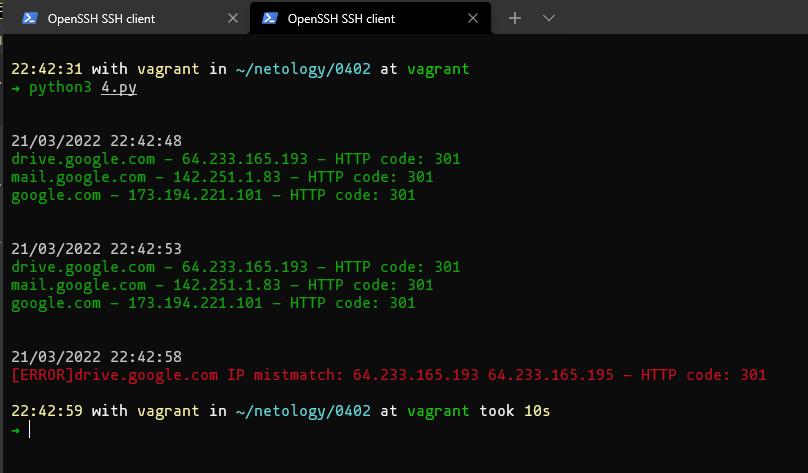
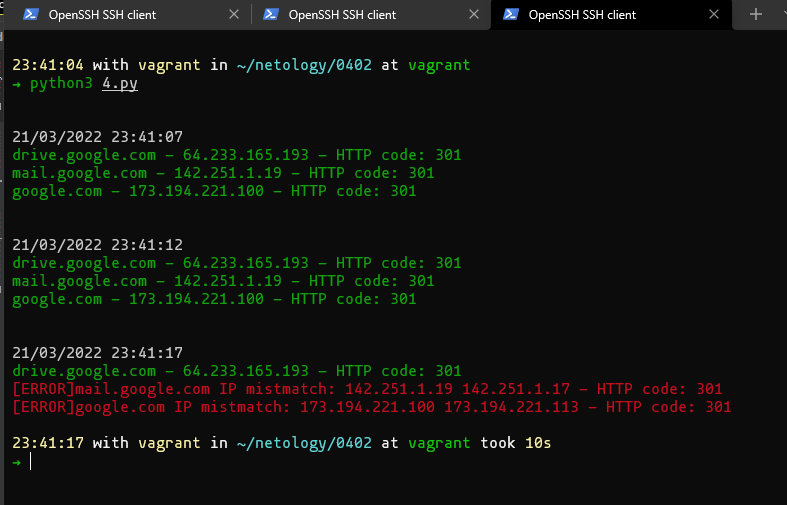
[04-script-03-yaml] ДЗ + скрипты + корректировки

diff --git a/04-script-03-yaml/scripts/1.py b/04-script-03-yaml/scripts/1.py
@@ -1,0 +1,52 @@
+#!/usr/bin/env python3
+
+import sys
+from subprocess import PIPE, Popen
+import socket
+import time
+from datetime import datetime
+import json
+import yaml
+
+port = "80"
+timeout = "10"
+
+hosts = {'drive.google.com':'','mail.google.com':'','google.com':''}
+
+def update_hosts(hosts_l):
+    for host in hosts_l:
+        ip = socket.gethostbyname(host)
+        hosts_l[host] = ip
+    return hosts_l
+
+def update_files(hosts_l):
+    with open('hosts.json', 'w') as hosts_json:
+        hosts_json.write(str(json.dumps(hosts_l)))
+    with open('hosts.yaml', 'w') as hosts_yaml:
+        hosts_yaml.write(yaml.dump(hosts_l))
+    return
+
+update_files(update_hosts(hosts))
+now_hosts = update_hosts(hosts)
+error = False
+
+while True:
+    now = datetime.now()
+    print('\n')
+    print('\033[37m' + now.strftime("%d/%m/%Y %H:%M:%S"))
+    for index, host in enumerate(now_hosts):
+        req = Popen('curl --write-out \'%{http_code}\' --silent --output /dev/null --connect-timeout ' + timeout + ' http://' + host + ':' + port, shell=True, stdout=PIPE, stderr=PIPE)
+        stdout, stderr = req.communicate()
+        code = stdout.decode()
+        now_ip = socket.gethostbyname(host)
+        if now_ip.find(now_hosts[host]) != -1:
+            print('\033[32m' + host + ' - ' + now_ip + ' - HTTP code: ' + code)
+        else:
+            print('\033[31m[ERROR]' + host + ' IP mistmatch: ' + now_hosts[host] + ' ' + now_ip + ' - HTTP code: ' + code)
+            error = True
+        
+        now_hosts[host] = now_ip
+    if error:
+        update_files(now_hosts)
+        sys.exit(0)
+    time.sleep(5)

diff --git a/04-script-02-py/scripts/4.py b/04-script-02-py/scripts/4.py
@@ -11,6 +11,7 @@ timeout = "10"
 hosts = ['drive.google.com','mail.google.com','google.com']
 hosts_ip =['','','']
 first = True
+error = False
 while True:
     now = datetime.now()
     print('\n')
@@ -25,10 +26,12 @@ while True:
                 print('\033[32m' + host + ' - ' + now_ip + ' - HTTP code: ' + code)
             else:
                 print('\033[31m[ERROR]' + host + ' IP mistmatch: ' + hosts_ip[index] + ' ' + now_ip + ' - HTTP code: ' + code)
-                sys.exit(0)
+                error = True
         else:
             print('\033[32m' + host + ' - ' + now_ip + ' - HTTP code: ' + code)
         hosts_ip[index] = now_ip
+    if error:
+        sys.exit(0)
     first = False
     time.sleep(5)
     

diff --git a/04-script-03-yaml/README.md b/04-script-03-yaml/README.md
@@ -1,0 +1,148 @@
+### Как сдавать задания
+
+Вы уже изучили блок «Системы управления версиями», и начиная с этого занятия все ваши работы будут приниматься ссылками на .md-файлы, размещённые в вашем публичном репозитории.
+
+Скопируйте в свой .md-файл содержимое этого файла; исходники можно посмотреть [здесь](https://raw.githubusercontent.com/netology-code/sysadm-homeworks/devsys10/04-script-03-yaml/README.md). Заполните недостающие части документа решением задач (заменяйте `???`, ОСТАЛЬНОЕ В ШАБЛОНЕ НЕ ТРОГАЙТЕ чтобы не сломать форматирование текста, подсветку синтаксиса и прочее, иначе можно отправиться на доработку) и отправляйте на проверку. Вместо логов можно вставить скриншоты по желани.
+
+# Домашнее задание к занятию "4.3. Языки разметки JSON и YAML"
+
+
+## Обязательная задача 1
+Мы выгрузили JSON, который получили через API запрос к нашему сервису:
+```
+    { "info" : "Sample JSON output from our service\t",
+        "elements" :[
+            { "name" : "first",
+            "type" : "server",
+            "ip" : 7175 
+            }, 
+            { "name" : "second",
+            "type" : "proxy",
+            "ip" : "71.78.22.43"   
+            }
+        ]
+    }
+```
+  Нужно найти и исправить все ошибки, которые допускает наш сервис
+
+1. запятая в 6 строке после }
+2. ковычка у "ip в 9 строке
+3. сам ip адресс в ковычки в 9 строке
+
+## Обязательная задача 2
+В прошлый рабочий день мы создавали скрипт, позволяющий опрашивать веб-сервисы и получать их IP. К уже реализованному функционалу нам нужно добавить возможность записи JSON и YAML файлов, описывающих наши сервисы. Формат записи JSON по одному сервису: `{ "имя сервиса" : "его IP"}`. Формат записи YAML по одному сервису: `- имя сервиса: его IP`. Если в момент исполнения скрипта меняется IP у сервиса - он должен так же поменяться в yml и json файле.
+
+### Ваш скрипт:
+```python
+#!/usr/bin/env python3
+
+import sys
+from subprocess import PIPE, Popen
+import socket
+import time
+from datetime import datetime
+import json
+import yaml
+
+port = "80"
+timeout = "10"
+
+hosts = {'drive.google.com':'','mail.google.com':'','google.com':''}
+
+def update_hosts(hosts_l):
+    for host in hosts_l:
+        ip = socket.gethostbyname(host)
+        hosts_l[host] = ip
+    return hosts_l
+
+def update_files(hosts_l):
+    with open('hosts.json', 'w') as hosts_json:
+        hosts_json.write(str(json.dumps(hosts_l)))
+    with open('hosts.yaml', 'w') as hosts_yaml:
+        hosts_yaml.write(yaml.dump(hosts_l))
+    return
+
+update_files(update_hosts(hosts))
+now_hosts = update_hosts(hosts)
+error = False
+
+while True:
+    now = datetime.now()
+    print('\n')
+    print('\033[37m' + now.strftime("%d/%m/%Y %H:%M:%S"))
+    for index, host in enumerate(now_hosts):
+        req = Popen('curl --write-out \'%{http_code}\' --silent --output /dev/null --connect-timeout ' + timeout + ' http://' + host + ':' + port, shell=True, stdout=PIPE, stderr=PIPE)
+        stdout, stderr = req.communicate()
+        code = stdout.decode()
+        now_ip = socket.gethostbyname(host)
+        if now_ip.find(now_hosts[host]) != -1:
+            print('\033[32m' + host + ' - ' + now_ip + ' - HTTP code: ' + code)
+        else:
+            print('\033[31m[ERROR]' + host + ' IP mistmatch: ' + now_hosts[host] + ' ' + now_ip + ' - HTTP code: ' + code)
+            error = True
+
+        now_hosts[host] = now_ip
+    if error:
+        update_files(now_hosts)
+        sys.exit(0)
+    time.sleep(5)
+```
+
+### Вывод скрипта при запуске при тестировании:
+```
+
+23:54:08 with vagrant in ~/netology/0403 at vagrant
+➜ python3 1.py
+
+
+21/03/2022 23:54:13
+drive.google.com - 64.233.165.193 - HTTP code: 301
+mail.google.com - 142.251.1.18 - HTTP code: 301
+google.com - 173.194.221.138 - HTTP code: 301
+
+
+21/03/2022 23:54:18
+drive.google.com - 64.233.165.193 - HTTP code: 301
+mail.google.com - 142.251.1.18 - HTTP code: 301
+google.com - 173.194.221.138 - HTTP code: 301
+
+
+21/03/2022 23:54:24
+drive.google.com - 64.233.165.193 - HTTP code: 301
+[ERROR]mail.google.com IP mistmatch: 142.251.1.18 142.251.1.17 - HTTP code: 301
+[ERROR]google.com IP mistmatch: 173.194.221.138 173.194.221.102 - HTTP code: 301
+
+23:54:24 with vagrant in ~/netology/0403 at vagrant took 11s
+➜
+```
+
+![1](img/img001.png)
+
+### json-файл(ы), который(е) записал ваш скрипт:
+```json
+{"drive.google.com": "64.233.165.193", "mail.google.com": "142.251.1.17", "google.com": "173.194.221.102"}```
+
+### yml-файл(ы), который(е) записал ваш скрипт:
+```yaml
+drive.google.com: 64.233.165.193
+google.com: 173.194.221.102
+mail.google.com: 142.251.1.17
+```
+
+## Дополнительное задание (со звездочкой*) - необязательно к выполнению
+
+Так как команды в нашей компании никак не могут прийти к единому мнению о том, какой формат разметки данных использовать: JSON или YAML, нам нужно реализовать парсер из одного формата в другой. Он должен уметь:
+   * Принимать на вход имя файла
+   * Проверять формат исходного файла. Если файл не json или yml - скрипт должен остановить свою работу
+   * Распознавать какой формат данных в файле. Считается, что файлы *.json и *.yml могут быть перепутаны
+   * Перекодировать данные из исходного формата во второй доступный (из JSON в YAML, из YAML в JSON)
+   * При обнаружении ошибки в исходном файле - указать в стандартном выводе строку с ошибкой синтаксиса и её номер
+   * Полученный файл должен иметь имя исходного файла, разница в наименовании обеспечивается разницей расширения файлов
+
+### Ваш скрипт:
+```python
+???
+```
+
+### Пример работы скрипта:
+???

diff --git a/04-script-02-py/README.md b/04-script-02-py/README.md
@@ -246,6 +246,7 @@ timeout = "10"
 hosts = ['drive.google.com','mail.google.com','google.com']
 hosts_ip =['','','']
 first = True
+error = False
 while True:
     now = datetime.now()
     print('\n')
@@ -260,34 +261,41 @@ while True:
                 print('\033[32m' + host + ' - ' + now_ip + ' - HTTP code: ' + code)
             else:
                 print('\033[31m[ERROR]' + host + ' IP mistmatch: ' + hosts_ip[index] + ' ' + now_ip + ' - HTTP code: ' + code)
-                sys.exit(0)
+                error = True
         else:
             print('\033[32m' + host + ' - ' + now_ip + ' - HTTP code: ' + code)
         hosts_ip[index] = now_ip
+    if error:
+        sys.exit(0)
     first = False
     time.sleep(5)
 ```
 
 ### Вывод скрипта при запуске при тестировании:
 ```bash
-22:42:31 with vagrant in ~/netology/0402 at vagrant
+23:41:04 with vagrant in ~/netology/0402 at vagrant
 ➜ python3 4.py
 
 
-21/03/2022 22:42:48
+21/03/2022 23:41:07
 drive.google.com - 64.233.165.193 - HTTP code: 301
-mail.google.com - 142.251.1.83 - HTTP code: 301
-google.com - 173.194.221.101 - HTTP code: 301
+mail.google.com - 142.251.1.19 - HTTP code: 301
+google.com - 173.194.221.100 - HTTP code: 301
 
 
-21/03/2022 22:42:53
+21/03/2022 23:41:12
 drive.google.com - 64.233.165.193 - HTTP code: 301
-mail.google.com - 142.251.1.83 - HTTP code: 301
-google.com - 173.194.221.101 - HTTP code: 301
+mail.google.com - 142.251.1.19 - HTTP code: 301
+google.com - 173.194.221.100 - HTTP code: 301
 
 
-21/03/2022 22:42:58
-[ERROR]drive.google.com IP mistmatch: 64.233.165.193 64.233.165.195 - HTTP code: 301
+21/03/2022 23:41:17
+drive.google.com - 64.233.165.193 - HTTP code: 301
+[ERROR]mail.google.com IP mistmatch: 142.251.1.19 142.251.1.17 - HTTP code: 301
+[ERROR]google.com IP mistmatch: 173.194.221.100 173.194.221.113 - HTTP code: 301
+
+23:41:17 with vagrant in ~/netology/0402 at vagrant took 10s
+➜
 ```
 
 ![4](img/img004.png)
